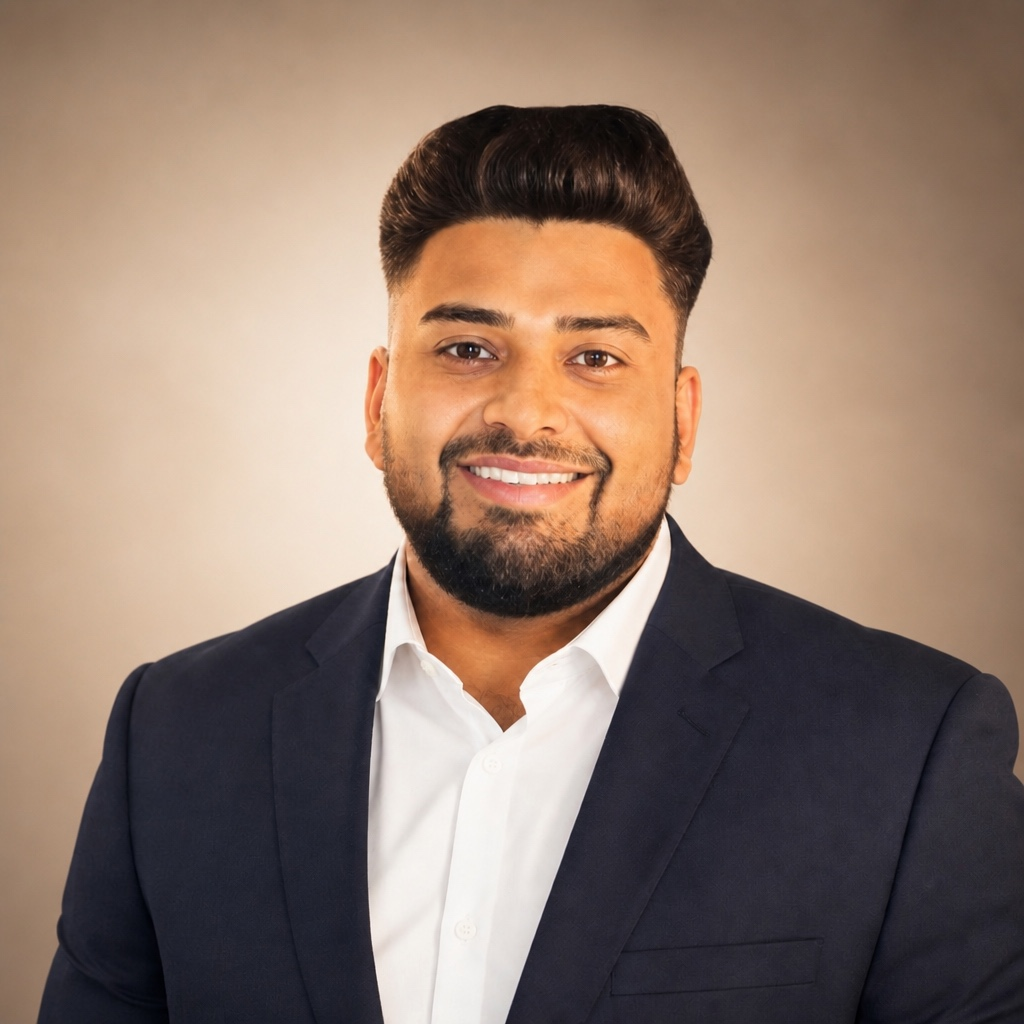
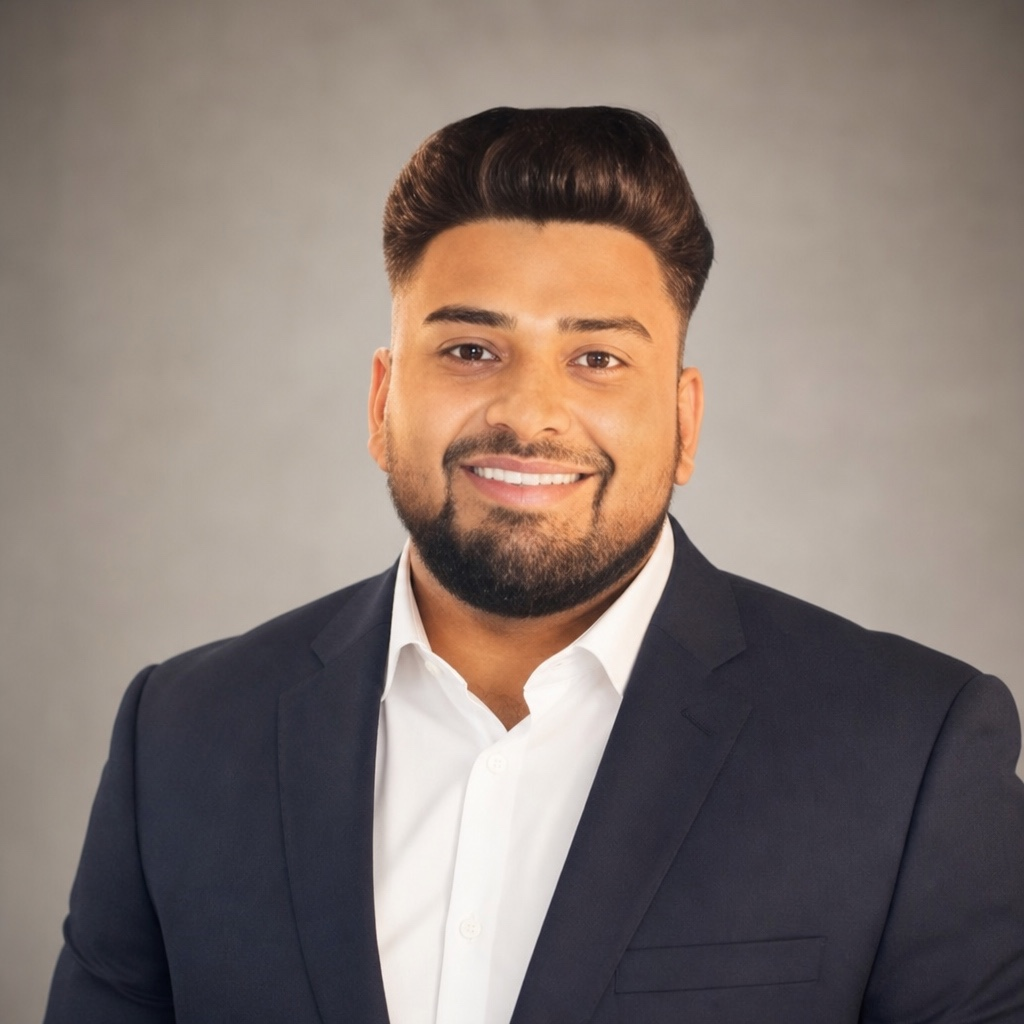
Update profile photo and fix interest i18n keys.
Store interest labels as strings so translations no longer return objects.

diff --git a/scripts/generateContentKeys.js b/scripts/generateContentKeys.js
@@ -43,7 +43,8 @@ function buildContent() {
   })
 
   ;(personal.interests || []).forEach((item, i) => {
-    content.personal.interests[String(i)] = item
+    content.personal.interests[String(i)] =
+      typeof item === 'string' ? item : item.label
   })
   ;(personal.principles || []).forEach((item, i) => {
     content.personal.principles[String(i)] = item
